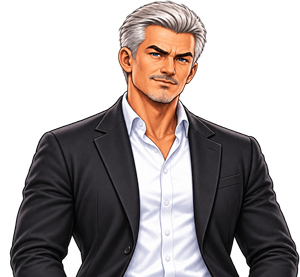
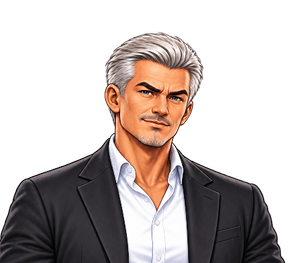
Kartu tokoh seragam (skala wajah sama), gambar MC baru

diff --git a/index.html b/index.html
@@ -273,10 +273,14 @@
   .cast { display: grid; grid-template-columns: repeat(5, 1fr); gap: 14px; }
   .who {
     position: relative; overflow: hidden; border-radius: 14px; background: var(--navy);
-    border: 1px solid var(--line); display: grid; grid-template-rows: 190px auto;
+    border: 1px solid var(--line); display: grid; grid-template-rows: auto 1fr; align-content: start;
   }
-  .who .pic { background: radial-gradient(80% 70% at 50% 100%, #173a6b, #0b1a31); display: flex; align-items: flex-end; justify-content: center; overflow: hidden; }
-  .who img { width: 88%; height: auto; object-fit: contain; object-position: bottom; max-height: 200px; }
+  /* Gambar tokoh DIPOTONG SERAGAM di sumbernya (lebar wajah sama, dagu di tinggi
+     yang sama, 300×263) — jadi kotaknya cukup mengikuti nisbah itu dan terisi
+     penuh. Dulu `contain` dengan lebar 88% membuat skala tiap tokoh ikut lebar
+     pose-nya: yang merentang tangan tampil lebih kecil. */
+  .who .pic { background: radial-gradient(80% 70% at 50% 100%, #173a6b, #0b1a31); aspect-ratio: 300 / 263; overflow: hidden; }
+  .who img { width: 100%; height: 100%; object-fit: cover; display: block; }
   .who div.t { padding: 12px 14px 16px; display: grid; gap: 4px; }
   .who b { font: 800 1.1rem/1.1 var(--display); text-transform: uppercase; }
   .who span { color: var(--muted); font-size: .88rem; line-height: 1.45; }
@@ -415,7 +419,7 @@
     .brand span { font-size: 1rem; letter-spacing: .04em; }
     .nav-end { gap: 8px; }
     .card { grid-template-columns: 30px 18px 1fr; font-size: .88rem; }
-    .who { grid-template-rows: 150px auto; }
+    .who { grid-template-rows: auto auto; }
     .studio > img { width: 96px; height: 96px; }
     .foot-cols { grid-template-columns: 1fr 1fr; gap: 20px; }
     .legal { flex-direction: column; }
